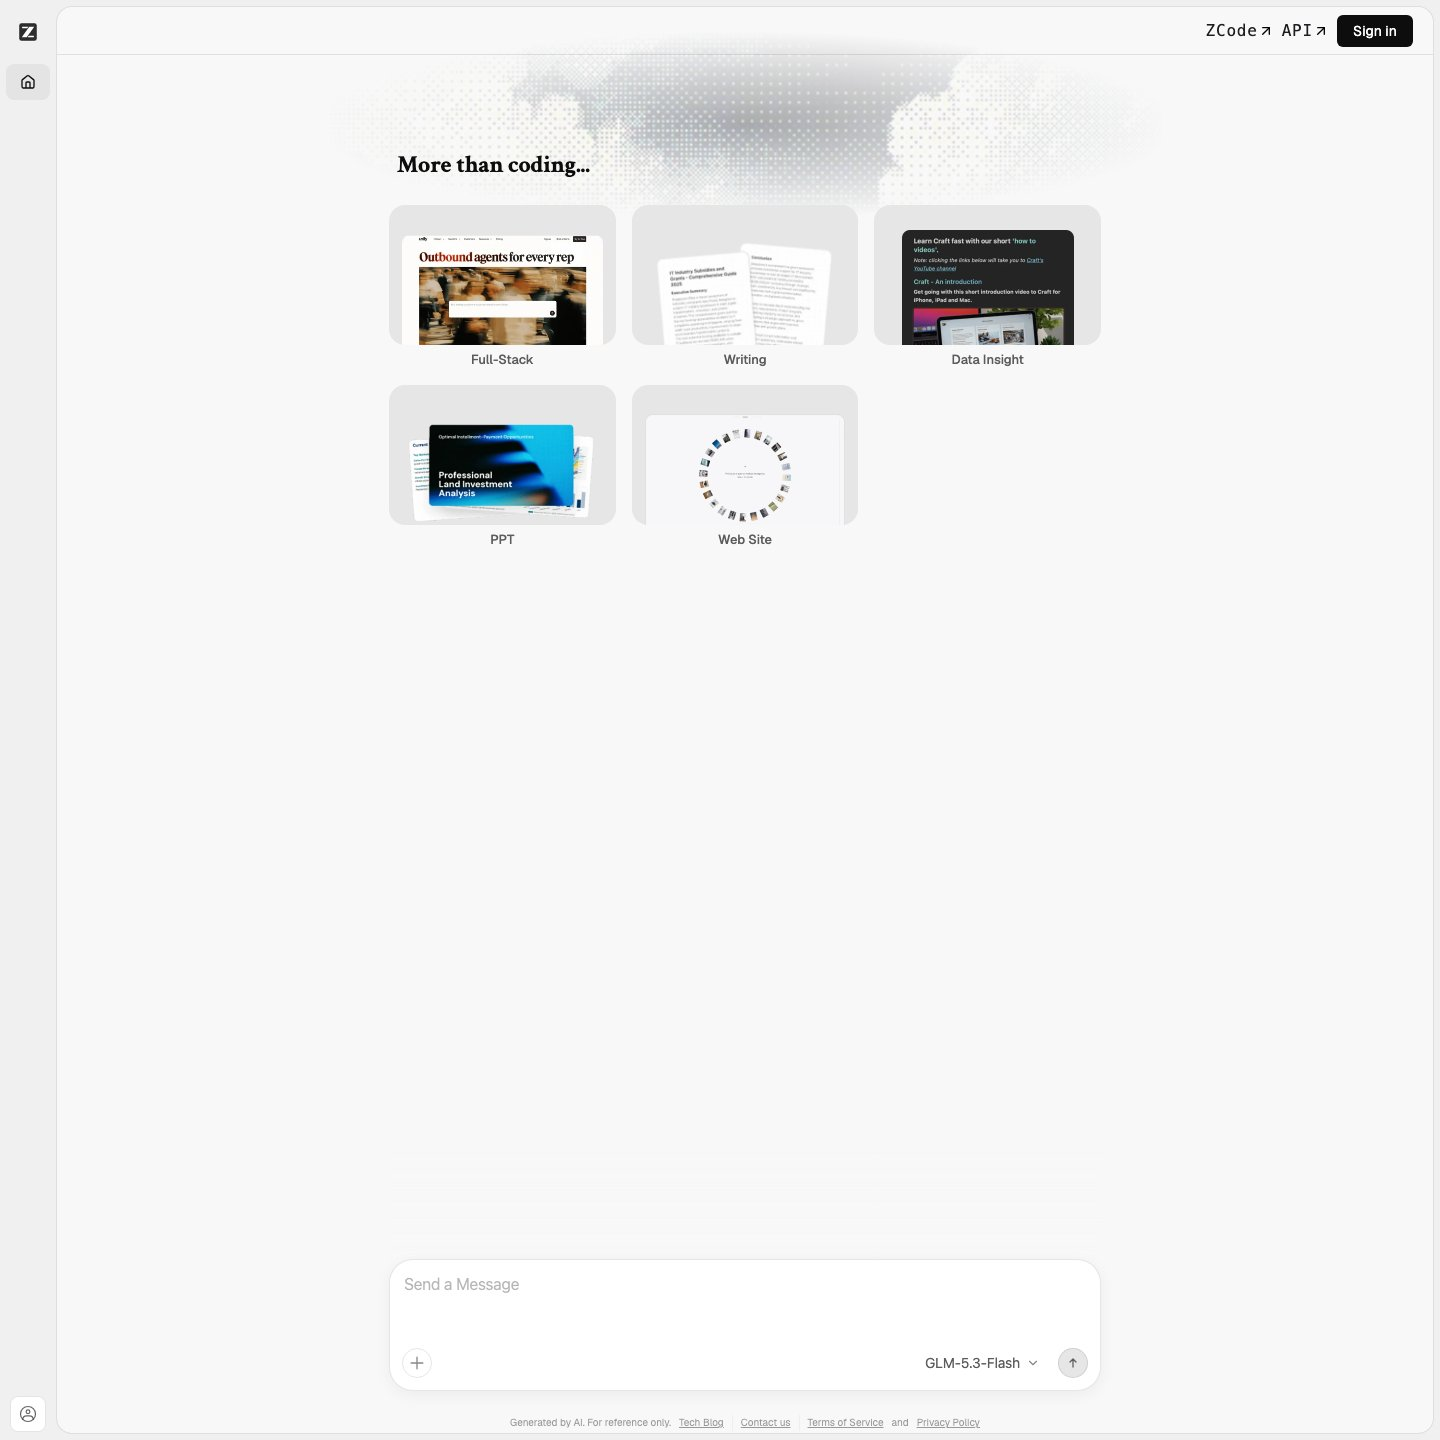
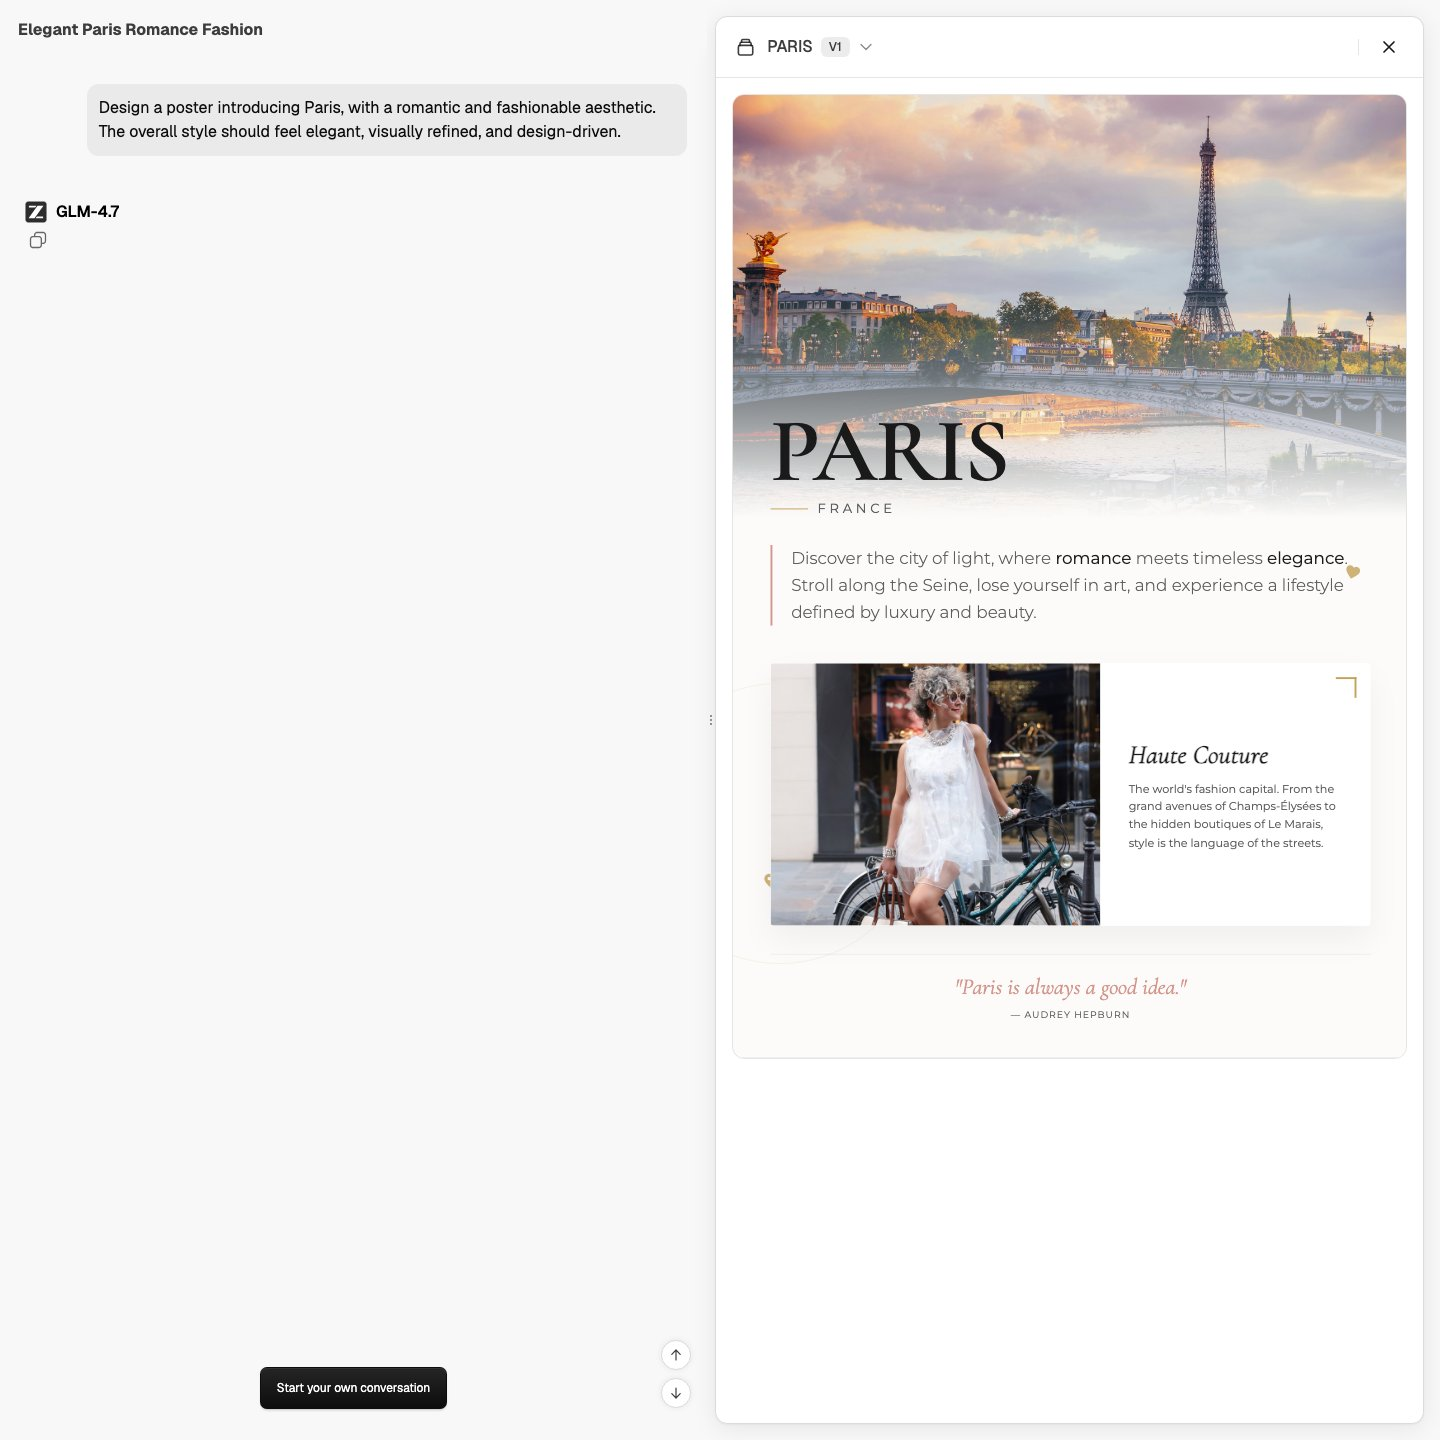
add screenshot url to show apps in use

diff --git a/apps/svelte.dev/src/routes/showcase/sites.ts b/apps/svelte.dev/src/routes/showcase/sites.ts
@@ -28,6 +28,8 @@ export interface Site {
 	category: Category;
 	/** how pnpm showcase takes the screenshot and how the page shows it */
 	screenshot?: {
+		/** a page of the site to take instead, such as a shared chat that shows the app in use */
+		url?: string;
 		/** the site blocks headless browsers, so it is only checked with pnpm showcase --headed */
 		headed?: boolean;
 		/** css selectors for things to hide such as popups */
@@ -420,7 +422,9 @@ export const sites: Site[] = [
 		name: 'Z.ai',
 		url: 'https://chat.z.ai/',
 		description: 'The AI assistant powered by GLM-5.3-Flash',
-		category: 'ai'
+		category: 'ai',
+		// a demo chat linked from https://z.ai/blog/glm-4.7
+		screenshot: { url: 'https://chat.z.ai/s/83640645-5436-4069-a27b-f8094189d669' }
 	},
 	{
 		id: 'modal',

diff --git a/apps/svelte.dev/scripts/showcase.ts b/apps/svelte.dev/scripts/showcase.ts
@@ -126,7 +126,10 @@ async function visit(browser: Browser, site: Site) {
 		const page = await context.newPage();
 		await blocker.enableBlockingInPage(page);
 
-		const response = await page.goto(site.url, { waitUntil: 'load', timeout: 30_000 });
+		const response = await page.goto(site.screenshot?.url ?? site.url, {
+			waitUntil: 'load',
+			timeout: 30_000
+		});
 		await page.waitForLoadState('networkidle', { timeout: 10_000 }).catch(() => {});
 
 		let found = await page.evaluate(detect).catch(() => null);
